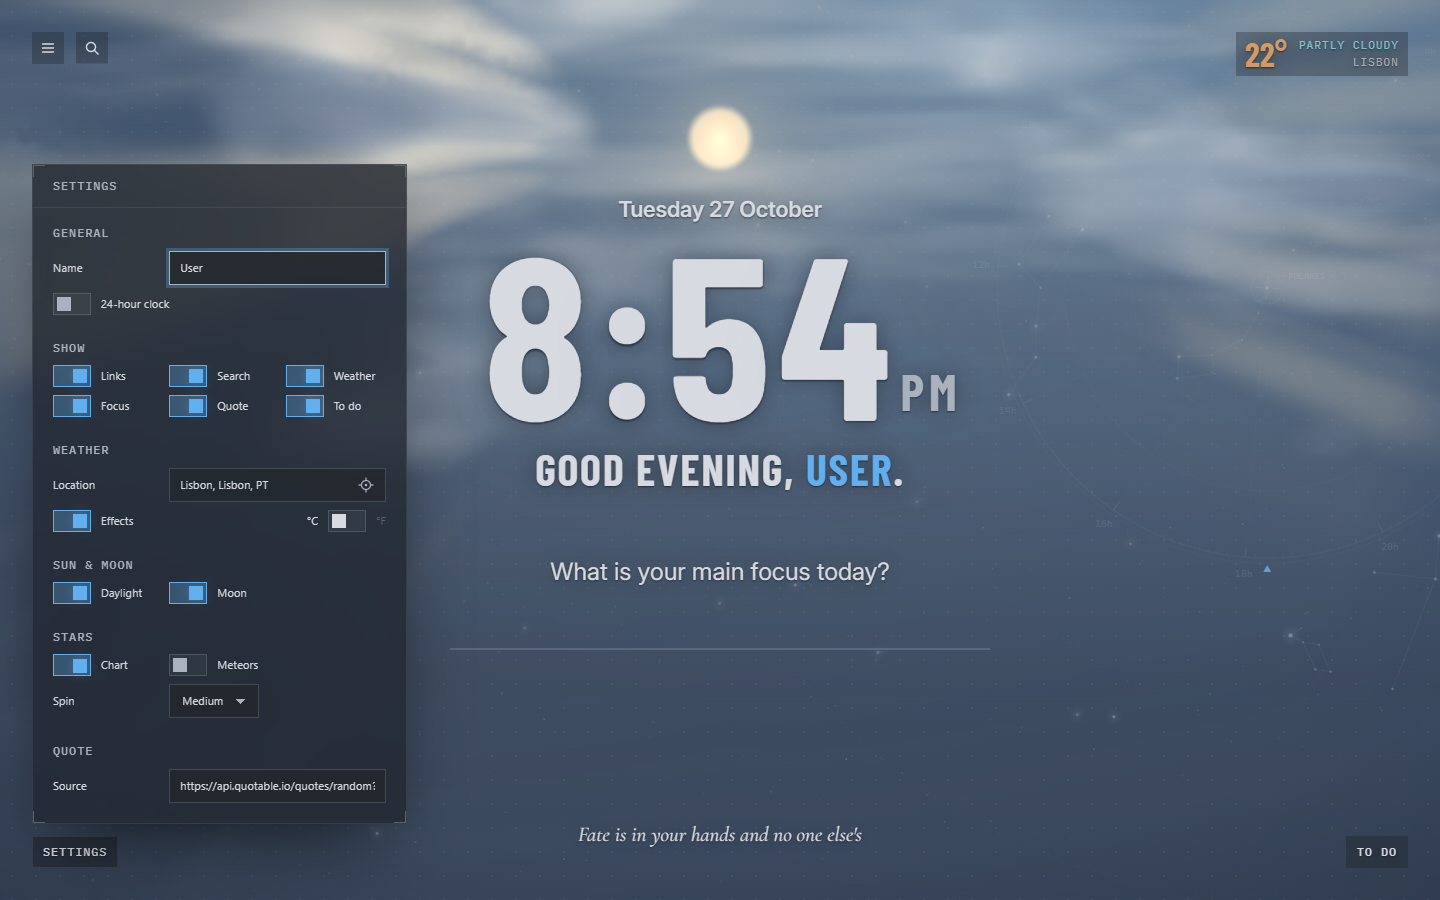
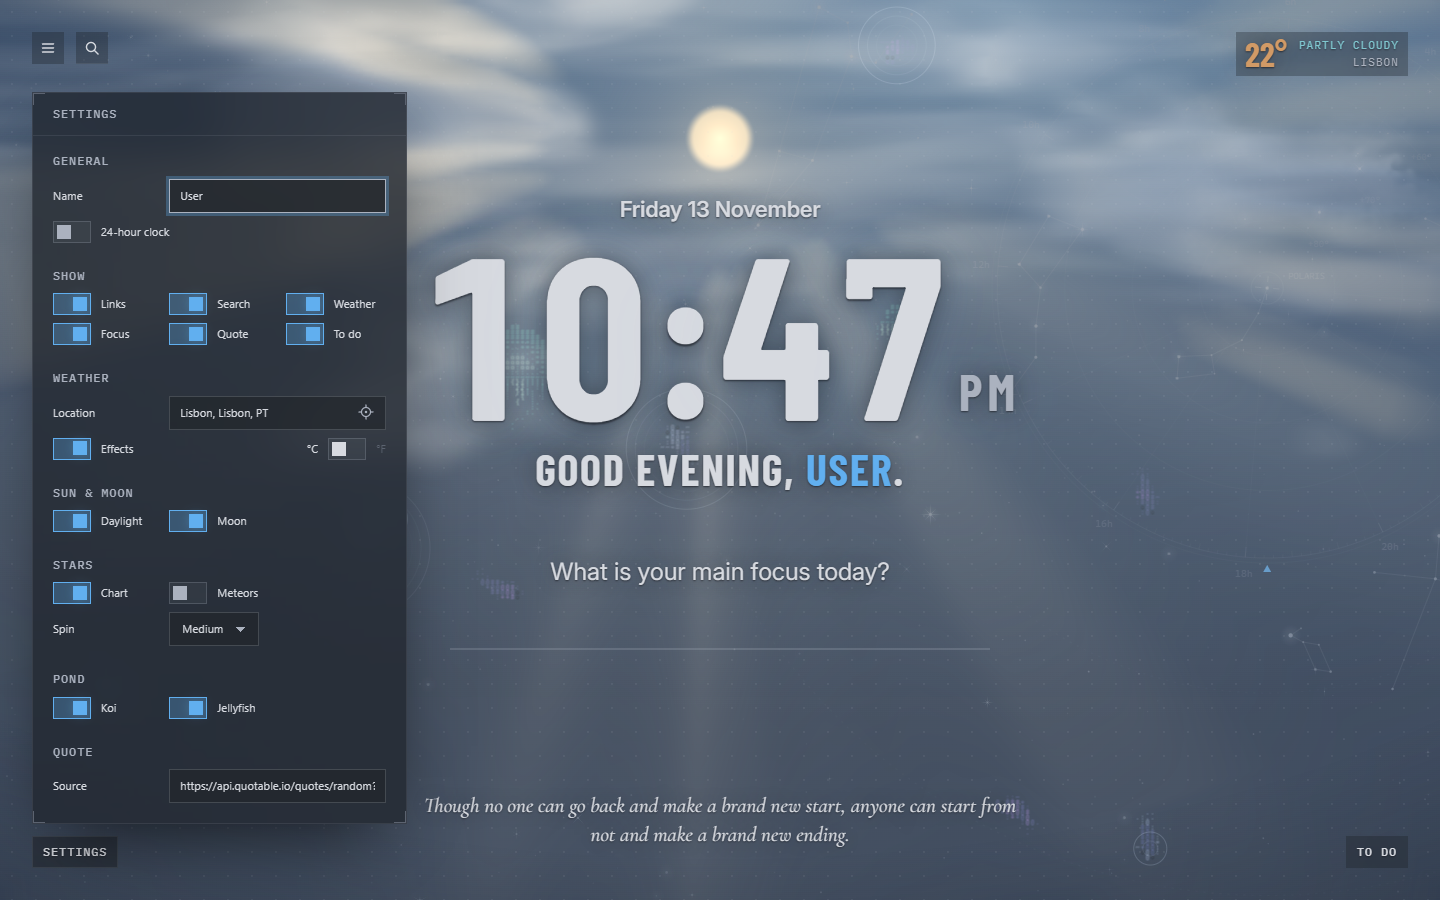
Grey overcast clouds, use only open-licensed fonts, trim comments

diff --git a/newtab/src/scene.ts b/newtab/src/scene.ts
@@ -2,7 +2,7 @@
 import { initAtmosphere, renderAtmosphere, resizeAtmosphere } from './atmosphere.js';
 import { nightness, sunPlace } from './daylight.js';
 import { moonPlace } from './moon.js';
-import { clamp, mixRGB, rgba, type RGB } from './math.js';
+import { clamp, grey, mixRGB, rgba, type RGB } from './math.js';
 import { reducedMotion } from './motion.js';
 import { onSettings, settings } from './settings.js';
 
@@ -158,19 +158,22 @@ function dayness(): number {
 }
 
 function retone(d: number): void {
-  const k = Math.round(cur.dark * 10) / 10, dd = Math.round(d * 10) / 10;
-  const key = `${k},${dd}`;
+  const k = Math.round(cur.dark * 10) / 10, dd = Math.round(d * 10) / 10, o = Math.round(overcast() * 10) / 10;
+  const key = `${k},${dd},${o}`;
   if (key === toneKey) return;
   toneKey = key;
-  lit = mixRGB(mixRGB([62, 68, 82], [196, 203, 215], dd), [88, 95, 110], k * 0.8);
-  base = mixRGB(mixRGB([30, 34, 41], [122, 133, 152], dd), [38, 42, 50], k * 0.85);
+  lit = grey(mixRGB(mixRGB([62, 68, 82], [196, 203, 215], dd), [88, 95, 110], k * 0.8), o * 0.85);
+  base = grey(mixRGB(mixRGB([30, 34, 41], [122, 133, 152], dd), [38, 42, 50], k * 0.85), o * 0.85);
   fogCol = mixRGB([80, 86, 100], [168, 176, 190], dd);
   for (const b of bands) b.sprite = fogSprite(b.w, fogCol);
 }
 
+/** How fully the sky is clouded over, which greys the clouds. */
+const overcast = (): number => clamp((cur.cover - 0.7) / 0.3);
+
 /** Overcast deck: a flat sheet of cloud color that hides the stars and dims the sky. */
-function drawDeck(): void {
-  const a = clamp((cur.cover - 0.45) * 1.8) * (0.4 + 0.25 * cur.dark);
+function drawDeck(d: number): void {
+  const a = clamp((cur.cover - 0.45) * 1.8) * (0.4 + 0.25 * cur.dark + 0.3 * overcast() * d);
   if (a <= 0.005) return;
   const g = ctx.createLinearGradient(0, 0, 0, h);
   g.addColorStop(0, rgba(base, a));
@@ -204,7 +207,6 @@ function drawRain(dt: number, d: number): void {
   if (!n) return;
   const col: RGB = mixRGB([150, 165, 190], [200, 215, 235], d);
   const lenScale = 0.55 + 0.45 * cur.rain;
-  // Three depth buckets, one stroke each.
   for (const [lo, hi, width, alpha] of [[0, 0.5, 0.7, 0.1], [0.5, 0.8, 0.9, 0.17], [0.8, 1.01, 1.1, 0.26]] as const) {
     ctx.beginPath();
     for (let i = 0; i < n; i++) {
@@ -351,7 +353,7 @@ function frame(t: number, dt: number): void {
 
   ctx.setTransform(dpr, 0, 0, dpr, 0, 0);
   ctx.clearRect(0, 0, w, h);
-  drawDeck();
+  drawDeck(d);
   drawFog(dt);
   drawStorm(t, dt);
   const sun = sunPlace();
@@ -446,7 +448,7 @@ export function initScene(): void {
   new MutationObserver(redraw).observe(time, { childList: true, subtree: true, characterData: true });
   const sizes = new ResizeObserver(redraw);
   for (const el of time.parentElement!.children) sizes.observe(el);
-  // fonts arrive after first paint; redraw when each batch lands
+  // Fonts arrive after first paint, which moves the digits.
   document.fonts.addEventListener('loadingdone', redraw);
   void document.fonts.ready.then(redraw);
   // With no weather to animate the loop stops; the sun still moves, so redraw once a minute.

diff --git a/newtab/src/atmosphere.ts b/newtab/src/atmosphere.ts
@@ -1,5 +1,5 @@
 // The sun, clouds and god rays in WebGL2: three cloud inks in a stable-fluids simulation, lit by sunlight marched through them.
-import { clamp, mixRGB } from './math.js';
+import { clamp, grey, mixRGB } from './math.js';
 import { MASK_SCALE, textMask } from './text-mask.js';
 
 export interface AtmosphereInput {
@@ -492,7 +492,6 @@ export function renderAtmosphere(dt: number, p: AtmosphereInput): void {
   if (!gl) return;
   const cloudy = p.cover >= 0.005;
   const sunVis = clamp((p.sun.elev + 1.5) / 3) * p.sun.vis * p.day;
-  // Rays come from the sun while it shows, otherwise from the moon.
   const bySun = sunVis > SUN_VISIBLE;
   const rayVis = bySun ? sunVis : p.moon.vis * MOON_RAYS;
   const shining = rayVis > SUN_VISIBLE;
@@ -530,9 +529,10 @@ export function renderAtmosphere(dt: number, p: AtmosphereInput): void {
     pass('rays', rays, { uSource: dye.read, uMask: mask, uMaskScale: MASK_SCALE, uSun: from, uRes: res, uCloudOn: cloudOn });
     pass('beams', beams, { uRays: rays, uSun: from, uRes: res });
   }
-  const lit = mixRGB(mixRGB([0.36, 0.39, 0.45], [0.95, 0.96, 0.98], p.day), [0.62, 0.65, 0.7], p.dark * 0.6);
-  const shade = mixRGB(mixRGB([0.16, 0.18, 0.22], [0.58, 0.62, 0.69], p.day), [0.3, 0.32, 0.37], p.dark * 0.7);
-  const low = mixRGB(mixRGB([0.2, 0.22, 0.27], [0.7, 0.74, 0.8], p.day), [0.34, 0.36, 0.41], p.dark * 0.7);
+  const overcast = clamp((p.cover - 0.7) / 0.3) * 0.85;
+  const lit = grey(mixRGB(mixRGB([0.36, 0.39, 0.45], [0.95, 0.96, 0.98], p.day), [0.62, 0.65, 0.7], p.dark * 0.6), overcast);
+  const shade = grey(mixRGB(mixRGB([0.16, 0.18, 0.22], [0.58, 0.62, 0.69], p.day), [0.3, 0.32, 0.37], p.dark * 0.7), overcast);
+  const low = grey(mixRGB(mixRGB([0.2, 0.22, 0.27], [0.7, 0.74, 0.8], p.day), [0.34, 0.36, 0.41], p.dark * 0.7), overcast);
   pass('display', null, {
     uSource: dye.read, uBeams: beams, uLight: light, uSun: sun, uRes: res, uSunR: sunR, uSunCol: sunCol, uSunVis: sunVis,
     uRayStrength: shining ? rayVis : 0, uRayCol: bySun ? sunCol : MOON_COL, uCloudOn: cloudOn,
@@ -567,7 +567,6 @@ export function initAtmosphere(el: HTMLCanvasElement, shadow?: HTMLElement): voi
   gl.texParameteri(gl.TEXTURE_2D, gl.TEXTURE_MIN_FILTER, gl.LINEAR_MIPMAP_LINEAR);
   gl.texParameteri(gl.TEXTURE_2D, gl.TEXTURE_WRAP_S, gl.CLAMP_TO_EDGE);
   gl.texParameteri(gl.TEXTURE_2D, gl.TEXTURE_WRAP_T, gl.CLAMP_TO_EDGE);
-  // Empty until the text is first drawn.
   gl.texImage2D(gl.TEXTURE_2D, 0, gl.RGBA, 1, 1, 0, gl.RGBA, gl.UNSIGNED_BYTE, new Uint8Array(4));
   resizeAtmosphere();
   addEventListener('pointermove', (e) => {

diff --git a/newtab/src/math.ts b/newtab/src/math.ts
@@ -7,6 +7,11 @@ export const DAY_MS = 86_400_000;
 export const clamp = (v: number, lo = 0, hi = 1): number => Math.min(hi, Math.max(lo, v));
 export const lerp = (a: number, b: number, t: number): number => a + (b - a) * t;
 export const mixRGB = (a: RGB, b: RGB, t: number): RGB => [lerp(a[0], b[0], t), lerp(a[1], b[1], t), lerp(a[2], b[2], t)];
+/** c moved toward the grey of the same luminance by t. */
+export const grey = (c: RGB, t: number): RGB => {
+  const y = 0.2126 * c[0] + 0.7152 * c[1] + 0.0722 * c[2];
+  return mixRGB(c, [y, y, y], t);
+};
 export const hex = (h: string): RGB => [1, 3, 5].map((i) => parseInt(h.slice(i, i + 2), 16)) as RGB;
 export const rgb = (c: RGB): string => `rgb(${c.map(Math.round).join(', ')})`;
 export const rgba = (c: RGB, a: number): string => `rgba(${c.map(Math.round).join(', ')}, ${a})`;

diff --git a/newtab/src/settings-form.ts b/newtab/src/settings-form.ts
@@ -9,7 +9,6 @@ export function initSettingsForm(): void {
   const status = $('place-status');
 
   onSettings((s) => {
-    // Don't overwrite a field while it's being typed in.
     if (document.activeElement !== field('name')) field('name').value = s.name;
     if (document.activeElement !== field('place')) field('place').value = s.place?.name ?? '';
     if (document.activeElement !== field('quoteApi')) field('quoteApi').value = s.quoteApi;

diff --git a/newtab/newtab.css b/newtab/newtab.css
@@ -185,9 +185,8 @@ body::after {
 }
 .center > * { pointer-events: auto; }
 
-/* The date set as Apple's lock screen does: SF Pro where installed, otherwise Inter; semibold, sentence case. */
 .date {
-  font-family: "SF Pro Display", -apple-system, "Inter", system-ui, sans-serif;
+  font-family: var(--font-body);
   font-optical-sizing: auto;
   color: var(--ink);
   margin: 0 0 var(--s-2);

diff --git a/newtab/src/focus.ts b/newtab/src/focus.ts
@@ -15,7 +15,6 @@ const done = $<HTMLInputElement>('focus-done');
 let focus: Focus | null = null;
 
 function render(): void {
-  // Yesterday's focus doesn't carry over.
   const current = focus && focus.day === today() ? focus : null;
   form.hidden = !!current;
   box.hidden = !current;

diff --git a/README.md b/README.md
@@ -168,4 +168,5 @@ The browser draws the frame image about 16px above the tab strip, so drawing sta
 - **Weather:** [Open-Meteo](https://open-meteo.com), no API key needed.
 - **Location:** from the browser, checked every 6 hours, and named with BigDataCloud's reverse geocoding. A city entered in Settings replaces it until you click the location button.
 - **Quotes:** from a [Quotable](https://github.com/lukepeavey/quotable)-compatible API, cached for the day. Quotable's public server has been offline since September 2024, so quotes come from the bundled list unless you set another source.
+- **Fonts:** [Inter](https://github.com/rsms/inter), [Barlow Condensed](https://github.com/jpt/barlow), [IBM Plex Mono](https://github.com/IBM/plex) and [Cormorant Garamond](https://github.com/CatharsisFonts/Cormorant), loaded from Google Fonts. All are under the SIL Open Font License 1.1.
 - **Bundled quotes:** `newtab/data/quotes.json` has 1,581 quotes from [dwyl/quotes](https://github.com/dwyl/quotes) (GPL-2.0), [inspirational-quotes](https://github.com/vinitshahdeo/inspirational-quotes) (MIT) and [DummyJSON](https://github.com/Ovi/DummyJSON) (MIT). Licenses are in `newtab/data/licenses/`. Because one source is GPL-2.0, the quote file is distributed under GPL-2.0.
